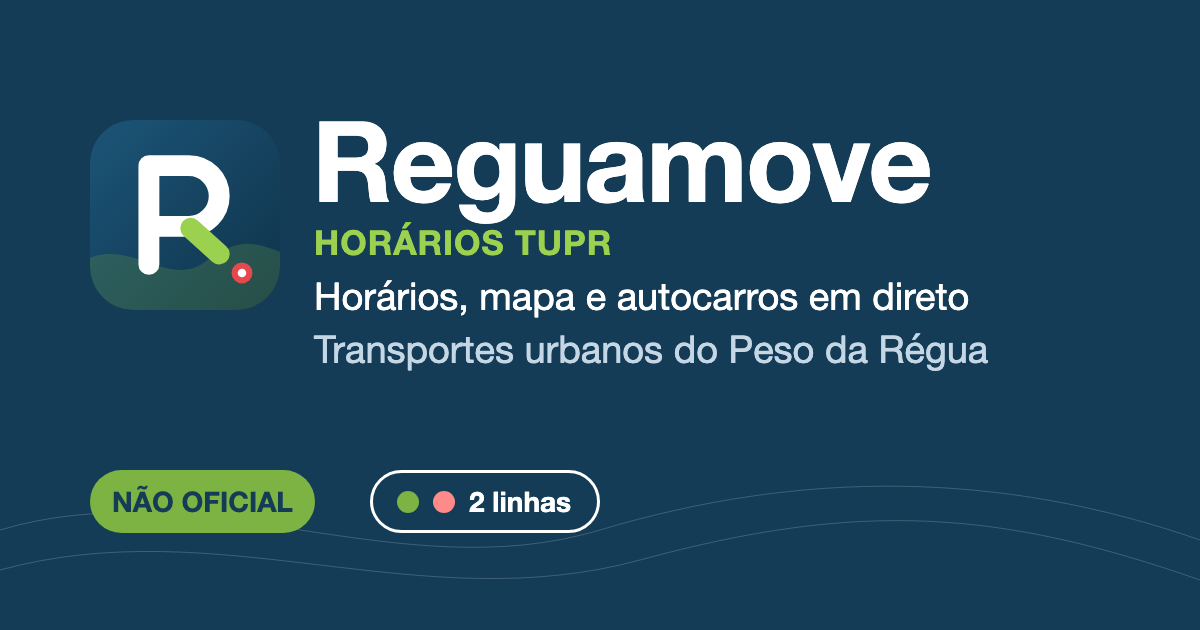
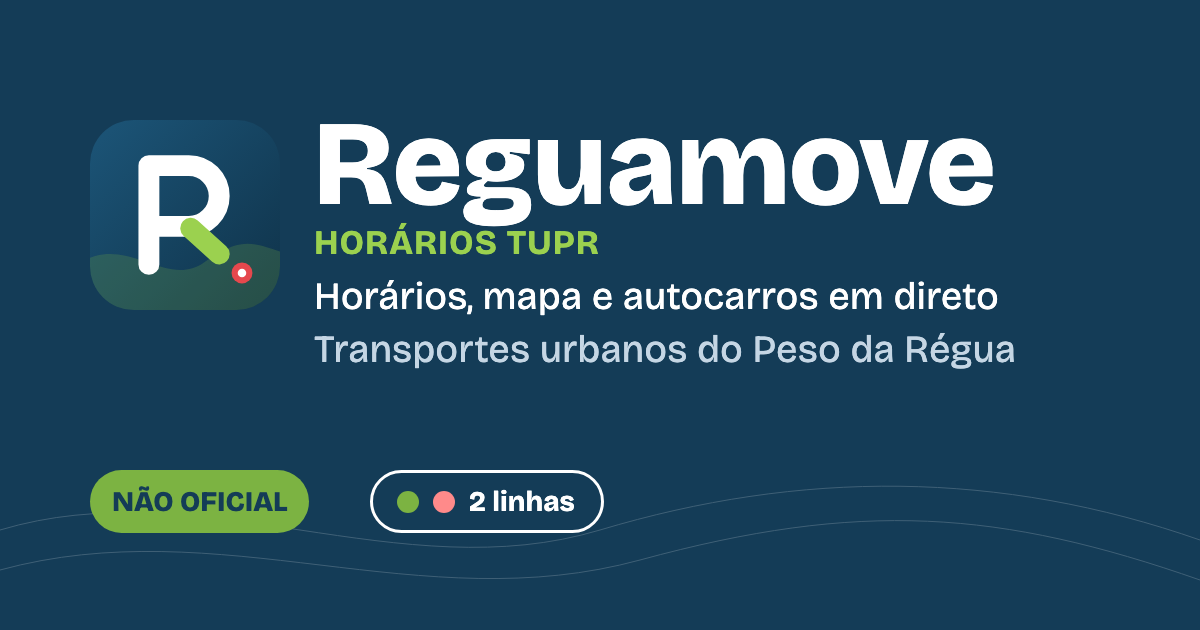
Tipo de letra Bricolage Grotesque nos títulos e no logótipo Reguamove

diff --git a/src/index.css b/src/index.css
@@ -1,5 +1,5 @@
 @import '@fontsource-variable/inter';
-@import '@fontsource-variable/sora';
+@import '@fontsource-variable/bricolage-grotesque';
 @import 'leaflet/dist/leaflet.css';
 @import 'tailwindcss';
 
@@ -60,7 +60,7 @@
   --color-warn: var(--warn);
   --color-bad: var(--bad);
   --font-sans: 'Inter Variable', system-ui, -apple-system, 'Segoe UI', sans-serif;
-  --font-display: 'Sora Variable', 'Inter Variable', system-ui, sans-serif;
+  --font-display: 'Bricolage Grotesque Variable', 'Inter Variable', system-ui, sans-serif;
 }
 
 html { scroll-behavior: smooth; -webkit-text-size-adjust: 100%; }
